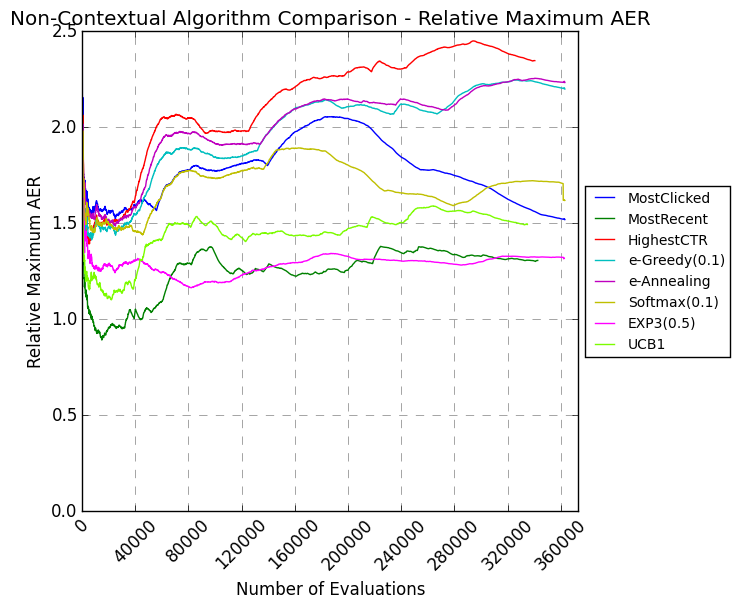
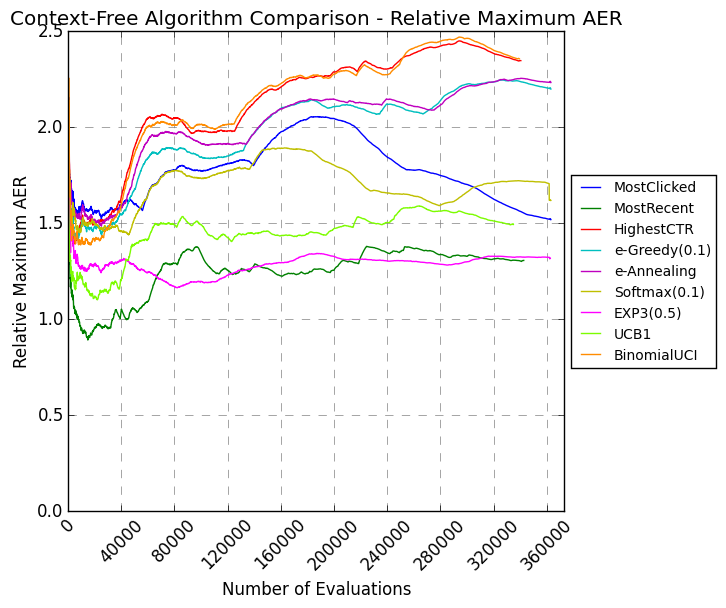
Fixed bug in Softmax algorithms

diff --git a/exploChallenge/policies/EnsembleSoftmaxUpdateAllModel.py b/exploChallenge/policies/EnsembleSoftmaxUpdateAllModel.py
@@ -11,8 +11,9 @@ from exploChallenge.policies.ContextualBanditPolicy import ContextualBanditPolic
 from exploChallenge.policies.RidgeRegressor import RidgeRegressor
 
 from exploChallenge.policies.NaiveBayesContextual import NaiveBayesContextual
-from exploChallenge.policies.LinUCB import LinUCB
-from exploChallenge.policies.eGreedyContextual import eGreedyContextual
+from exploChallenge.policies.BinomialUCI import BinomialUCI
+from exploChallenge.policies.UCB1 import UCB1
+from exploChallenge.policies.EXP3 import EXP3
 
 
 def categorical_draw(probs):
@@ -30,45 +31,51 @@ class EnsembleSoftmaxUpdateAllModel(ContextualBanditPolicy):
     def __init__(self, temp):
         # Create an object from each class to use for ensemble model
         self.policy_one = NaiveBayesContextual()
-        self.policy_two = LinUCB(0.1)
-        self.policy_three = eGreedyContextual(0.1, RidgeRegressor(np.eye(136), np.zeros(136)))
-        self.policies = [self.policy_one, self.policy_two, self.policy_three]
+        self.policy_two = BinomialUCI()
+        self.policy_three = UCB1()
+        self.policy_four = EXP3(0.5)
+        self.policies = [self.policy_one, self.policy_two, self.policy_three, self.policy_four]
         self.policy_counts = {}
         self.policy_scores = {}
         self.chosen_policy = None
         self.temperature = temp
+        self.total_counts = 0
 
     def getTemp(self):
         return self.temperature
 
     #@Override
     def getActionToPerform(self, visitor, possibleActions):
+        self.total_counts += 1
+        policy_probs = {}
 
-        probs = self.policy_scores
         for i in self.policies:
             if str(i) not in self.policy_counts:
                 self.policy_counts[str(i)] = 0
                 self.policy_scores[str(i)] = 0
 
-        z = sum([math.exp(self.policy_scores[v] / self.temperature) for v in self.policy_scores])
-        print z
+        policy_scores = [math.exp(self.policy_scores[str(a)]/self.temperature) for a in self.policy_scores]
+        #print "Policy scores: " + str(policy_scores)
+        z = sum(policy_scores)
+        #print z
 
         # Calculate the probability that each arm will be selected
-        for v in self.policy_scores:
-            probs[v]= math.exp(self.policy_scores[v] / self.temperature) / z
+        for v in self.policies:
+            policy_probs[v] = math.exp(self.policy_scores[str(v)] / self.temperature) / z
 
         # Generate random number and see which bin it falls into to select arm
-        print probs
-        self.chosen_policy = str(categorical_draw(probs))
-        print self.chosen_policy
+        self.chosen_policy = str(categorical_draw(policy_probs))
+        #print self.chosen_policy
         #print "ID equals: " + str(self.chosen_policy)
 
         if (re.match('<exploChallenge\.policies\.NaiveBayes',self.chosen_policy)):
             return self.policy_one.getActionToPerform(visitor, possibleActions)
-        elif (re.match('<exploChallenge\.policies\.LinUCB',self.chosen_policy)):
+        elif (re.match('<exploChallenge\.policies\.BinomialUCI',self.chosen_policy)):
             return self.policy_two.getActionToPerform(visitor, possibleActions)
-        elif (re.match('<exploChallenge\.policies\.eGreedyContextual',self.chosen_policy)):
-            return self.policy_two.getActionToPerform(visitor, possibleActions)
+        elif (re.match('<exploChallenge\.policies\.UCB1',self.chosen_policy)):
+            return self.policy_three.getActionToPerform(visitor, possibleActions)
+        elif (re.match('<exploChallenge\.policies\.EXP3',self.chosen_policy)):
+            return self.policy_four.getActionToPerform(visitor, possibleActions)
         else:
             print "Error in getActionToPerform!"
             return
@@ -88,13 +95,23 @@ class EnsembleSoftmaxUpdateAllModel(ContextualBanditPolicy):
             self.policy_three.updatePolicy(content, chosen_arm, reward)
         except:
             pass
+        try:
+            self.policy_four.updatePolicy(content, chosen_arm, reward)
+        except:
+            pass
 
         self.policy_counts[str(self.chosen_policy)] += 1
 
-        new_value = ((self.policy_counts[str(self.chosen_policy)] - 1) / float(self.policy_counts[str(self.chosen_policy)])) * \
-                    self.policy_scores[str(self.chosen_policy)] + reward * (1 / float(self.policy_counts[str(self.chosen_policy)]))
+        old_value = self.policy_scores[str(self.chosen_policy)]
+        n = self.policy_counts[str(self.chosen_policy)]
+        new_value = ((n - 1) / float(n)) * old_value + reward * (1 / float(n))
+        #print "Old value: " + str(old_value)
+        #print "New value:" + str(new_value)
         self.policy_scores[str(self.chosen_policy)] = new_value
-        print "Scores are: " + str(self.policy_scores)
-        print "Counts are: " + str(self.policy_counts)
+
+
+        if (self.total_counts % 100 == 0):
+            print "Scores are: " + str(self.policy_scores)
+            print "Counts are: " + str(self.policy_counts)
         return
 

diff --git a/exploChallenge/Main.py b/exploChallenge/Main.py
@@ -81,14 +81,14 @@ class Main:
         reader = None
 
         ## Create file to write output to..."a+" option appends
-        #outputFile = open("banditOutputsEnsembleFeatureSizeWithTime.txt", "a+")
+        #outputFile = open("banditOutputsBinomialUCIWithTime.txt", "a+")
         outputFile = open("testing.txt", "a+")
 
 
         try:
             # First file is for testing only
-            inputFile = "/Users/bixlermike/Contextual-Bandits/exploChallenge/first_10000_lines.txt"
-            #inputFile = "/Users/bixlermike/Contextual-Bandits/exploChallenge/ydata-fp-td-clicks-v2_0.20111002-08.txt"
+            #inputFile = "/Users/bixlermike/Contextual-Bandits/exploChallenge/first_10000_lines.txt"
+            inputFile = "/Users/bixlermike/Contextual-Bandits/exploChallenge/ydata-fp-td-clicks-v2_0.20111002-08.txt"
 
             # Filtered subset that only contains features with > 10% support
             #inputFile = "/Users/bixlermike/Contextual-Bandits/exploChallenge/first_10000_lines_filtered.txt"
@@ -133,9 +133,9 @@ class Main:
         #policyName = "eAnnealing"
         #outputFile.write("Policy: eAnnealing\n")
 
-        #policy = Softmax(0.1)
-        #policyName = "Softmax" + str(policy.getTemp())
-        #outputFile.write("Policy: Softmax" + str(policy.getTemp()) + "\n")
+        policy = Softmax(0.1)
+        policyName = "Softmax" + str(policy.getTemp())
+        outputFile.write("Policy: Softmax" + str(policy.getTemp()) + "\n")
 
         #policy = UCB1()
         #policyName = "UCB1"
@@ -144,6 +144,10 @@ class Main:
         #policy = EXP3(0.5)
         #policyName = "EXP3" + str(policy.getGamma())
         #outputFile.write("Policy: EXP3" + str(policy.getGamma()) + "\n")
+
+        #policy = BinomialUCI()
+        #policyName = "BinomialUCI"
+        #outputFile.write("Policy: BinomialUCI\n")
 
         #policy = ThompsonSampling(1.0, 1.0)
         #policyName = "ThompsonSampling" + str(policy.getPriors())
@@ -169,10 +173,6 @@ class Main:
         #policyName = "LinearBayes"
         #outputFile.write("Policy: LinearBayes\n")
 
-        policy = BinomialUCI()
-        policyName = "BinomialUCI"
-        outputFile.write("Policy: BinomialUCI\n")
-
         #policy = SoftmaxContextual(0.1, RidgeRegressor(np.eye(136), np.zeros(136)))
         #policyName = "SoftmaxContextual" + str(policy.getTemp())
         #outputFile.write("Policy: SoftmaxContextual" + str(policy.getTemp()) + "\n")
@@ -193,7 +193,7 @@ class Main:
         #policyName = "EnsembleEAnnealingUpdateAll"
         #outputFile.write("Policy: EnsembleEAnnealingUpdateAll\n")
 
-        #policy = EnsembleSoftmaxUpdateAllModel(0.5)
+        #policy = EnsembleSoftmaxUpdateAllModel(0.01)
         #policyName = "EnsembleSoftmaxUpdateAll" + str(policy.getTemp())
         #outputFile.write("Policy: EnsembleSoftmax\n")
 

diff --git a/exploChallenge/policies/Softmax.py b/exploChallenge/policies/Softmax.py
@@ -37,29 +37,28 @@ class Softmax(ContextualBanditPolicy):
             if action.getID() not in self.counts:
                 self.counts[action.getID()] = 0
                 self.values[action.getID()] = 0
-            arm_values[action.getID()] = self.values[action.getID()]
 
+        arm_scores = [math.exp(self.values[a.getID()]/self.temperature) for a in possibleActions]
+        #print "Arm scores: " + str(arm_scores)
         # Normalization factor z
-        z = sum([math.exp(self.values[v] / self.temperature) for v in self.values])
+        z = sum(arm_scores)
         # Calculate the probability that each arm will be selected
-        for v in arm_values:
-            arm_probs[v]= math.exp(self.values[v] / self.temperature) / z
+        for v in possibleActions:
+            arm_probs[v.getID()]= math.exp(self.values[v.getID()] / self.temperature) / z
+        #print "Arm probs: " + str(arm_probs)
         # Generate random number and see which bin it falls into to select arm
         id = categorical_draw(arm_probs)
         for action in possibleActions:
             if action.getID() == id:
                 return action
 
-
     def updatePolicy(self, content, chosen_arm, reward):
         try:
             self.counts[chosen_arm.getID()] = self.counts[chosen_arm.getID()] + 1
             n = self.counts[chosen_arm.getID()]
-
             value = self.values[chosen_arm.getID()]
-            if reward is True:
-                new_value = ((n - 1) / float(n)) * value + (1 / float(n))
-                self.values[chosen_arm.getID()] = new_value
+            new_value = ((n - 1) / float(n)) * value + reward * (1 / float(n))
+            self.values[chosen_arm.getID()] = new_value
             return
         except:
             return

diff --git a/exploChallenge/policies/SoftmaxContextual.py b/exploChallenge/policies/SoftmaxContextual.py
@@ -71,13 +71,15 @@ class SoftmaxContextual(ContextualBanditPolicy):
 
             # Now use estimated feature coefficients to predict which article is best given the contextual information
             self.predicted_arm_values[article.getID()] = float(np.dot(self.thetaT[article.getID()], x))
-            regressor_values[article.getID()] = self.predicted_arm_values[article.getID()]
 
+        arm_scores = [math.exp(self.predicted_arm_values[a.getID()]/self.temperature) for a in possibleActions]
+        #print "Arm scores: " + str(arm_scores)
         # Normalization factor z
-        z = sum([math.exp(self.predicted_arm_values[r] / self.temperature) for r in self.predicted_arm_values])
+        z = sum(arm_scores)
         # Calculate the probability that each arm will be selected
-        for v in regressor_values:
-            arm_probs[v]= math.exp(self.predicted_arm_values[v] / self.temperature) / z
+        for v in possibleActions:
+            arm_probs[v.getID()]= math.exp(self.predicted_arm_values[v.getID()] / self.temperature) / z
+        #print "Arm probs: " + str(arm_probs)
         # Generate random number and see which bin it falls into to select arm
         id = categorical_draw(arm_probs)
         for action in possibleActions:

diff --git a/exploChallenge/policies/EnsembleEAnnealingUpdateAllModel.py b/exploChallenge/policies/EnsembleEAnnealingUpdateAllModel.py
@@ -52,9 +52,9 @@ class EnsembleEAnnealingUpdateAllModel(ContextualBanditPolicy):
             self.chosen_policy = str(self.policies[rargmax(policy_values)])
             print self.policy_scores
         else:
-            #print "Exploring"
+            print "Exploring"
             self.chosen_policy =  str(rn.choice(self.policies))
-            #print self.policy_scores
+            print self.policy_scores
 
         print "Chosen policy: " + str(self.chosen_policy) + "\n"
         if (re.match('<exploChallenge\.policies\.NaiveBayes',self.chosen_policy)):
@@ -94,7 +94,7 @@ class EnsembleEAnnealingUpdateAllModel(ContextualBanditPolicy):
         new_value = ((self.policy_counts[str(self.chosen_policy)] - 1) / float(self.policy_counts[str(self.chosen_policy)])) * \
                     self.policy_scores[str(self.chosen_policy)] + reward * (1 / float(self.policy_counts[str(self.chosen_policy)]))
         self.policy_scores[str(self.chosen_policy)] = new_value
-        #print "Scores are: " + str(self.policy_scores)
-        #print "Counts are: " + str(self.policy_counts)
+        print "Scores are: " + str(self.policy_scores)
+        print "Counts are: " + str(self.policy_counts)
 
         return

diff --git a/create_mean_aer_plot_with_ranges.py b/create_mean_aer_plot_with_ranges.py
@@ -17,13 +17,13 @@ data3 = np.genfromtxt('banditMaxAERSummary.csv', delimiter=',', names = True)
 fig = plt.figure()
 ax = fig.add_subplot(111)
 
-ax.set_title("Relative Mean AER Range vs. Evaluation Number - HighestCTR Algorithm")
+ax.set_title("Relative Mean AER Range vs. Evaluation Number - BinomialUCI Algorithm")
 ax.set_xlabel('Number of Evaluations')
 ax.set_ylabel('Relative AER')
 
-minimum = data2['MostCTR']/data['Random']
-mean = data['MostCTR']/data['Random']
-maximum = data3['MostCTR']/data['Random']
+minimum = data2['BinomialUCI']/data['Random']
+mean = data['BinomialUCI']/data['Random']
+maximum = data3['BinomialUCI']/data['Random']
 ax.plot(data['t'], maximum, label='Max')
 ax.plot(data['t'], mean, label='Mean')
 ax.plot(data['t'], minimum, label='Min')
@@ -49,6 +49,6 @@ ax.xaxis.set_major_formatter(majorFormatter)
 #    ax1.axhline(y=ymaj,ls='-')
 plt.tight_layout()
 #plt.show()
-plt.savefig("plots/averageAERwithRangesHighestCTRAlgorithm.png", bbox_inches='tight')
+plt.savefig("plots/averageAERwithRangesBinomialUCIAlgorithm.png", bbox_inches='tight')
 
 

diff --git a/create_mean_aer_vs_time_plot.py b/create_mean_aer_vs_time_plot.py
@@ -14,7 +14,7 @@ data = np.genfromtxt('banditMeanAERVsTimeSummary.csv', delimiter=',', names = Tr
 fig = plt.figure()
 ax = fig.add_subplot(111)
 
-ax.set_title("Non-Contextual Algorithm Comparison - Relative Mean AER vs. Time Bin")
+ax.set_title("Context-Free Algorithm Comparison - Relative Mean AER vs. Time Bin")
 #ax.set_title("Contextual Algorithm Comparison - Average Expected Reward vs. Runtime")
 ax.set_xlabel('Time Bin')
 ax.set_ylabel('Relative Mean AER')
@@ -28,6 +28,7 @@ ax.plot(data['TimeBin'],data['eAnnealing']/data['Random'], label='e-Annealing')
 ax.plot(data['TimeBin'],data['Softmax01']/data['Random'], label='Softmax(0.1)')
 ax.plot(data['TimeBin'],data['EXP305']/data['Random'], label='EXP3(0.5)')
 ax.plot(data['TimeBin'],data['UCB1']/data['Random'], label='UCB1', color='lawngreen')
+ax.plot(data['TimeBin'],data['BinomialUCI']/data['Random'], label='BinomialUCI', color='darkorange')
 
 #ax.plot(data['TimeBin'],data['Naive3'], label='NaiveBayes')
 #ax.plot(data['TimeBin'],data['eGreedyContextual'], label='eGreedy')

diff --git a/create_min_aer_plot.py b/create_min_aer_plot.py
@@ -15,7 +15,7 @@ data2 = np.genfromtxt('banditMeanAERSummary.csv', delimiter=',', names = True)
 fig = plt.figure()
 ax = fig.add_subplot(111)
 
-ax.set_title("Non-Contextual Algorithm Comparison - Relative Minimum AER")
+ax.set_title("Context-Free Algorithm Comparison - Relative Minimum AER")
 ax.set_xlabel('Number of Evaluations')
 ax.set_ylabel('Relative Minimum AER')
 
@@ -28,6 +28,7 @@ ax.plot(data['t'],data['eAnnealing']/data2['Random'], label='e-Annealing')
 ax.plot(data['t'],data['Softmax01']/data2['Random'], label='Softmax(0.1)')
 ax.plot(data['t'],data['EXP305']/data2['Random'], label='EXP3(0.5)', color='fuchsia')
 ax.plot(data['t'],data['UCB1']/data2['Random'], label='UCB1', color='lawngreen')
+ax.plot(data['t'],data['BinomialUCI']/data2['Random'], label='BinomialUCI', color='darkorange')
 
 box = ax.get_position()
 ax.set_position([box.x0, box.y0, box.width * 0.8, box.height])

diff --git a/create_mean_aer_plot.py b/create_mean_aer_plot.py
@@ -14,7 +14,7 @@ data = np.genfromtxt('banditMeanAERSummary.csv', delimiter=',', names = True)
 fig = plt.figure()
 ax = fig.add_subplot(111)
 
-ax.set_title("Non-Contextual Algorithm Comparison - Relative Mean AER")
+ax.set_title("Context-Free Algorithm Comparison - Relative Mean AER")
 
 ax.set_xlabel('Number of Evaluations')
 ax.set_ylabel('Relative Mean AER')
@@ -28,6 +28,7 @@ ax.plot(data['t'],data['eAnnealing']/data['Random'], label='e-Annealing')
 ax.plot(data['t'],data['Softmax01']/data['Random'], label='Softmax(0.1)')
 ax.plot(data['t'],data['EXP305']/data['Random'], label='EXP3(0.5)', color='fuchsia')
 ax.plot(data['t'],data['UCB1']/data['Random'], label='UCB1', color='lawngreen')
+ax.plot(data['t'],data['BinomialUCI']/data['Random'], label='BinomialUCI', color='darkorange')
 
 box = ax.get_position()
 ax.set_position([box.x0, box.y0, box.width * 0.8, box.height])

diff --git a/create_max_aer_plot.py b/create_max_aer_plot.py
@@ -15,7 +15,7 @@ data2 = np.genfromtxt('banditMeanAERSummary.csv', delimiter=',', names = True)
 fig = plt.figure()
 ax = fig.add_subplot(111)
 
-ax.set_title("Non-Contextual Algorithm Comparison - Relative Maximum AER")
+ax.set_title("Context-Free Algorithm Comparison - Relative Maximum AER")
 
 ax.set_xlabel('Number of Evaluations')
 ax.set_ylabel('Relative Maximum AER')
@@ -29,6 +29,7 @@ ax.plot(data['t'],data['eAnnealing']/data2['Random'], label='e-Annealing')
 ax.plot(data['t'],data['Softmax01']/data2['Random'], label='Softmax(0.1)')
 ax.plot(data['t'],data['EXP305']/data2['Random'], label='EXP3(0.5)', color='fuchsia')
 ax.plot(data['t'],data['UCB1']/data2['Random'], label='UCB1', color='lawngreen')
+ax.plot(data['t'],data['BinomialUCI']/data2['Random'], label='BinomialUCI', color='darkorange')
 
 
 box = ax.get_position()

diff --git a/create_stdev_aer_plot.py b/create_stdev_aer_plot.py
@@ -14,7 +14,7 @@ data = np.genfromtxt('banditStDevAERSummary.csv', delimiter=',', names = True)
 fig = plt.figure()
 ax = fig.add_subplot(111)
 
-ax.set_title("Non-Contextual Algorithm Comparison - Standard Deviation of AER")
+ax.set_title("Context-Free Algorithm Comparison - Standard Deviation of AER")
 ax.set_xlabel('Number of Evaluations')
 ax.set_ylabel('Standard Deviation of AER')
 
@@ -27,6 +27,7 @@ ax.plot(data['t'],data['eAnnealing'], label='e-Annealing')
 ax.plot(data['t'],data['Softmax01'], label='Softmax(0.1)')
 ax.plot(data['t'],data['EXP305'], label='EXP3(0.5)', color='fuchsia')
 ax.plot(data['t'],data['UCB1'], label='UCB1', color='lawngreen')
+ax.plot(data['t'],data['BinomialUCI'], label='BinomialUCI', color='darkorange')
 
 box = ax.get_position()
 ax.set_position([box.x0, box.y0, box.width * 0.8, box.height])

diff --git a/create_var_aer_plot.py b/create_var_aer_plot.py
@@ -14,7 +14,7 @@ data = np.genfromtxt('banditVarAERSummary.csv', delimiter=',', names = True)
 fig = plt.figure()
 ax = fig.add_subplot(111)
 
-ax.set_title("Non-Contextual Algorithm Comparison - Variance of AER")
+ax.set_title("Context-Free Algorithm Comparison - Variance of AER")
 ax.set_xlabel('Number of Evaluations')
 ax.set_ylabel('Variance of AER')
 
@@ -27,6 +27,7 @@ ax.plot(data['t'],data['eAnnealing'], label='e-Annealing')
 ax.plot(data['t'],data['Softmax01'], label='Softmax(0.1)')
 ax.plot(data['t'],data['EXP305'], label='EXP3(0.5)', color='fuchsia')
 ax.plot(data['t'],data['UCB1'], label='UCB1', color='lawngreen')
+ax.plot(data['t'],data['BinomialUCI'], label='BinomialUCI', color='darkorange')
 
 box = ax.get_position()
 ax.set_position([box.x0, box.y0, box.width * 0.8, box.height])
